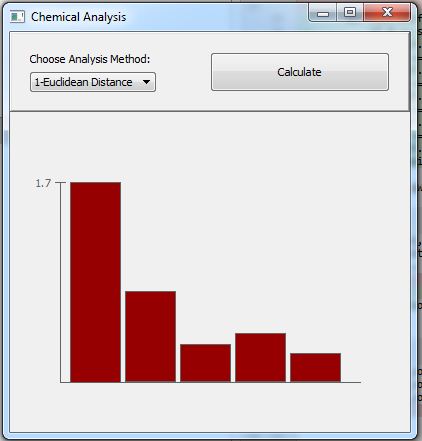
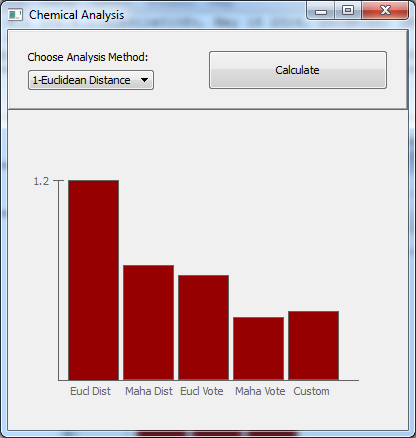
Added labels to bars on x-axis.

diff --git a/gui.py b/gui.py
@@ -10,6 +10,7 @@ class calcHandler:
         self.method = 0
         self.values = [None,None,None,None,None]
         self.maximum = None
+        self.names = [' Eucl Dist', ' Maha Dist', ' Eucl Vote', ' Maha Vote', '  Custom']
     def setMethod(self, method):
         self.method = method
     def calc(self):
@@ -85,13 +86,14 @@ class UI(QtGui.QWidget):
             qp.drawRect(50, 350, 300, 0)
             qp.drawRect(50, 150, 0, 200)
             qp.drawRect(45, 150, 10, 0)
-            #Label
+            #Label text
             qp.drawText(25,155,'%.1f' % self.m.maximum)
             #data bars
             qp.setBrush(QtGui.QColor(150, 0, 0))
             for i,x in enumerate(self.m.values):
                 if x:
-                   qp.drawRect(60+i*55, 350-200*(x/self.m.maximum), 50, 200*(x/self.m.maximum)) 
+                   qp.drawRect(60+i*55, 350-200*(x/self.m.maximum), 50, 200*(x/self.m.maximum))
+                   qp.drawText(60+i*55, 365 ,self.m.names[i])
 
         
 
